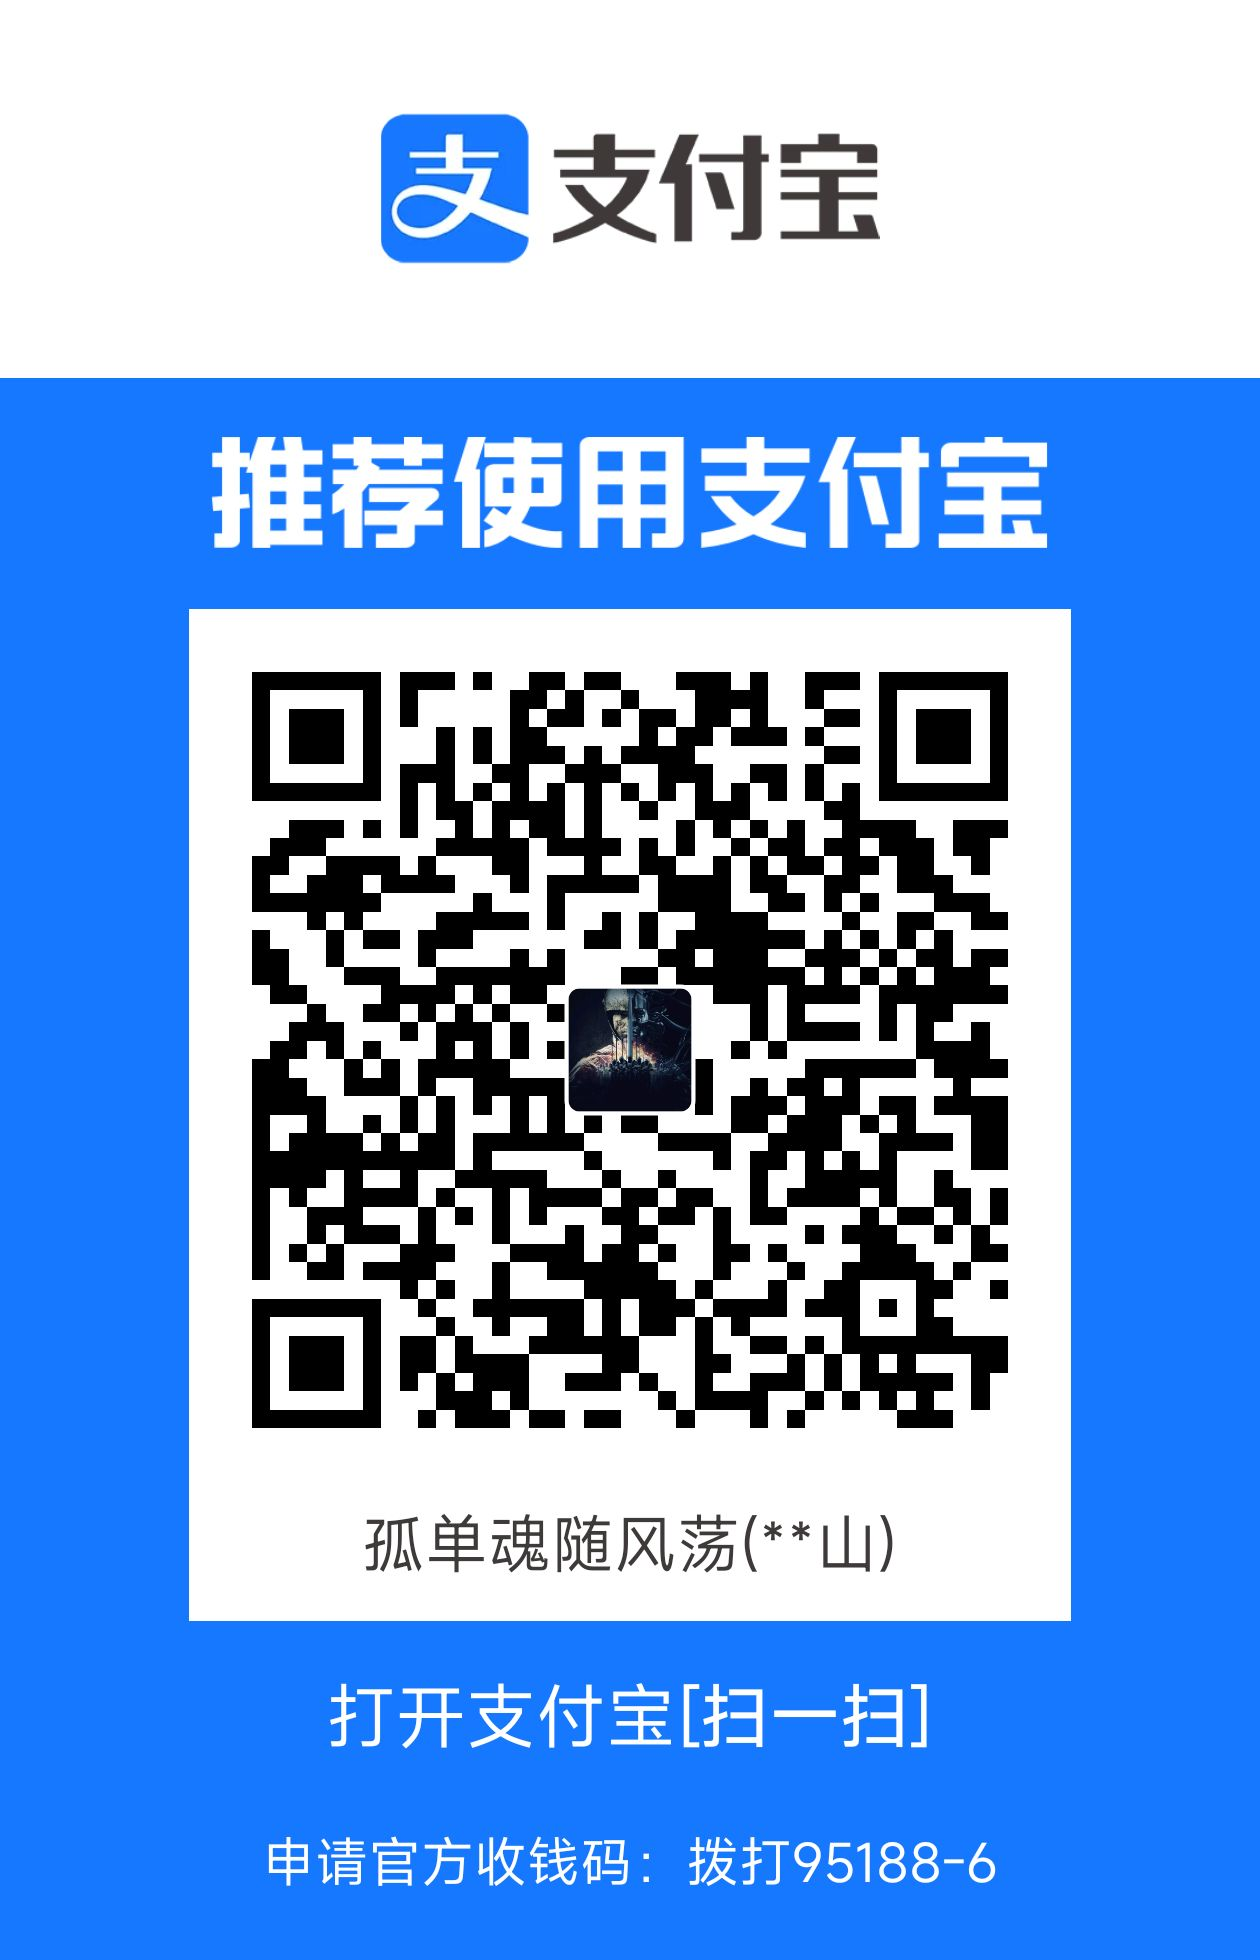
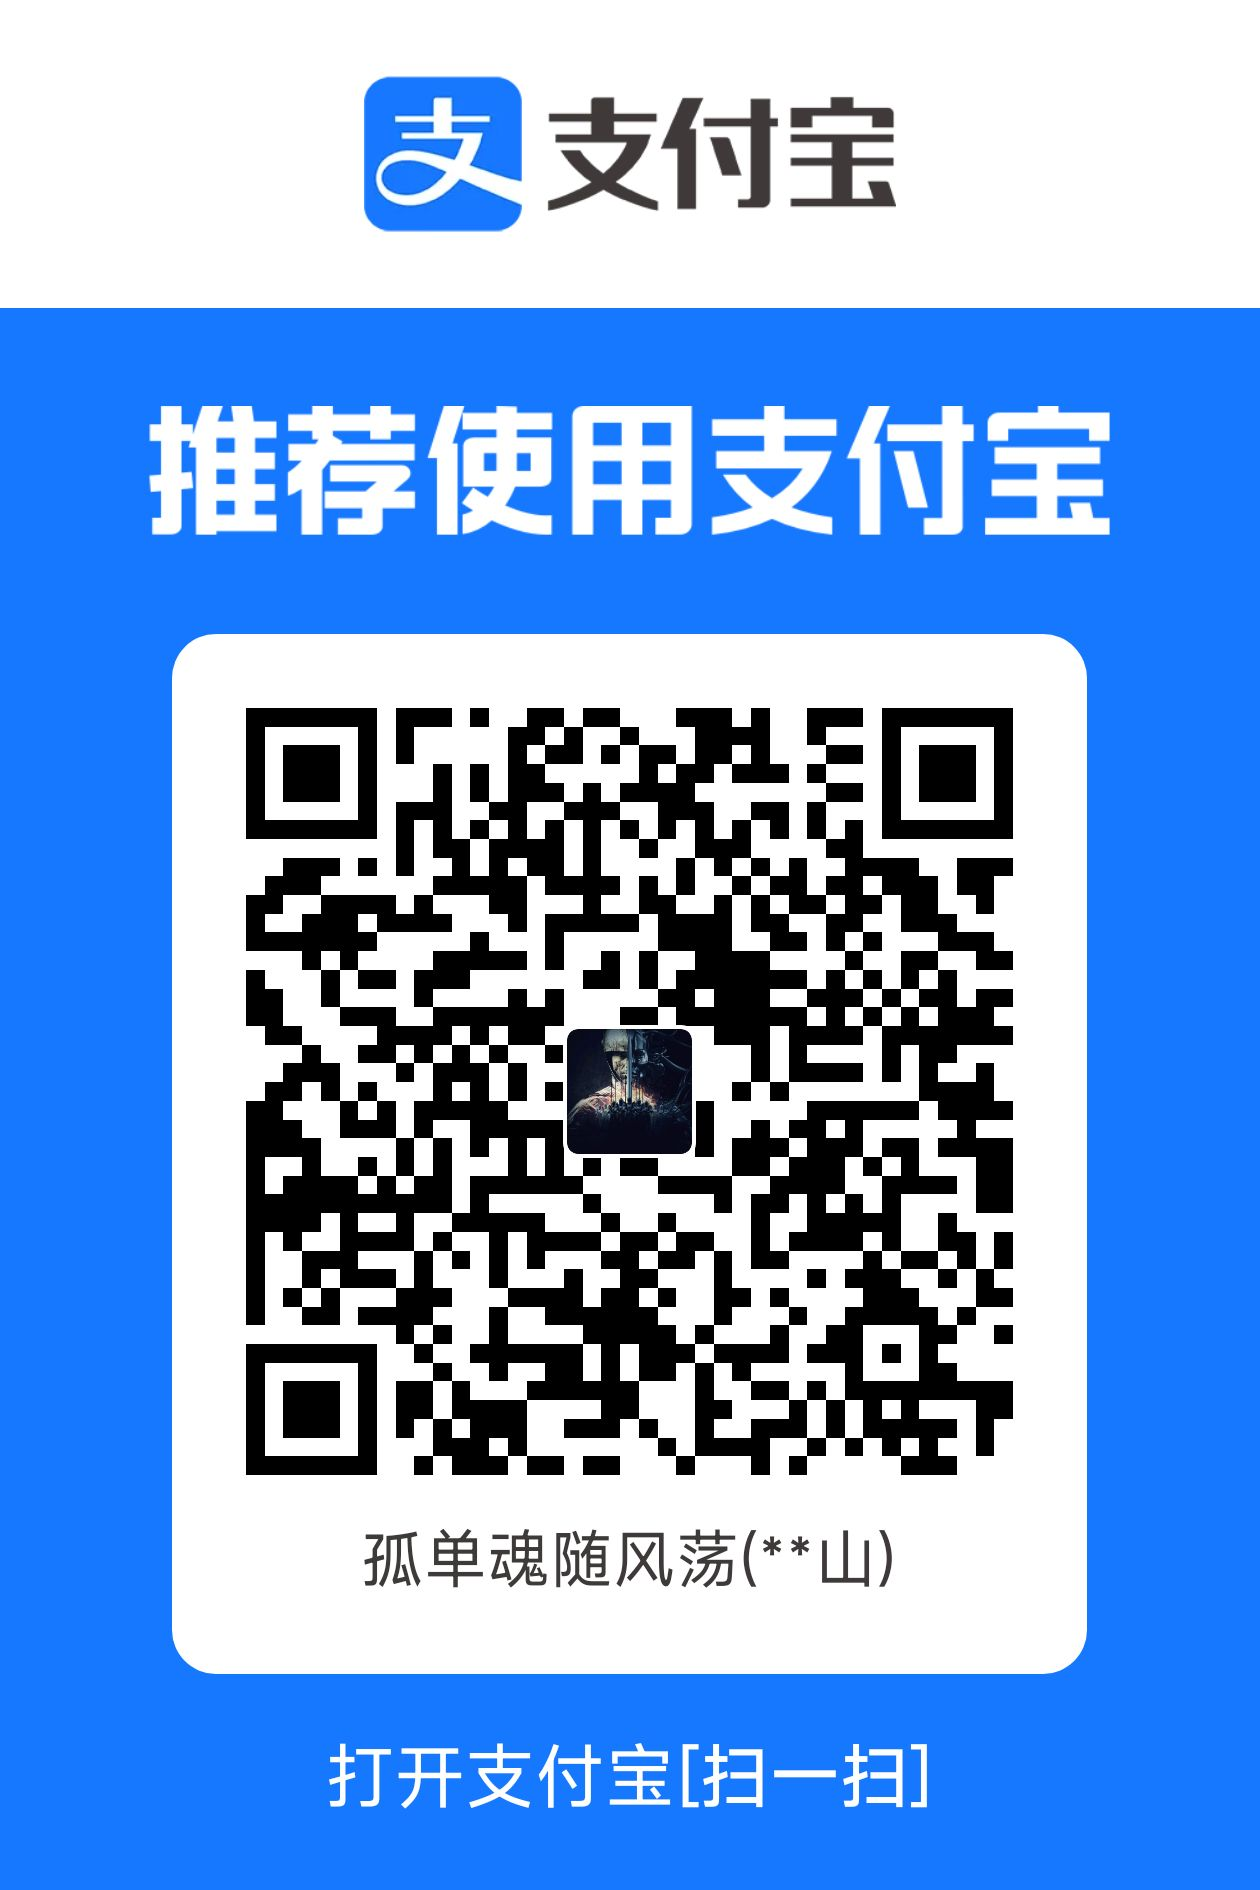
更新打赏

diff --git a/_tabs/about.md b/_tabs/about.md
@@ -27,8 +27,8 @@ order: 4
 4. 若 GitHub 源无法访问，可添加 `https://ghfast.top/` 前缀，即：将地址分别改为 `https://ghfast.top/https://github.com/[username]/[reponame]/releases/download/[tagname]/[filename]`（推荐）、`https://ghfast.top/https://raw.githubusercontent.com/[username]/[reponame]/[tagname]/[filename]` 和 `https://ghfast.top/https://raw.githubusercontent.com/[username]/[reponame]/[branchname]/[filename]`
 
 ## 给作者加鸡腿
-支付宝  
-<img src="/assets/img/about/alipay.jpg" alt="支付宝" width="20%" />
+<img src="/assets/img/about/alipay.jpg" alt="支付宝" width="30%" />
+<img src="/assets/img/about/wechat.png" alt="微信" width="30%" />
 
 ## 机场推荐
 [Bitz Net](https://rd2.bnaffloop.com/#/register?code=HT0ALWZq)（仅次于一线机场，推荐打折时购买）  

diff --git a/README.md b/README.md
@@ -22,8 +22,8 @@
 4. 若 GitHub 源无法访问，可添加 `https://ghfast.top/` 前缀，即：将地址分别改为 `https://ghfast.top/https://github.com/[username]/[reponame]/releases/download/[tagname]/[filename]`（推荐）、`https://ghfast.top/https://raw.githubusercontent.com/[username]/[reponame]/[tagname]/[filename]` 和 `https://ghfast.top/https://raw.githubusercontent.com/[username]/[reponame]/[branchname]/[filename]`
 
 # 给作者加鸡腿
-支付宝  
-<img src="/assets/img/about/alipay.jpg" alt="支付宝" width="20%" />
+<img src="/assets/img/about/alipay.jpg" alt="支付宝" width="30%" />
+<img src="/assets/img/about/wechat.png" alt="微信" width="30%" />
 
 # 机场推荐
 [Bitz Net](https://rd2.bnaffloop.com/#/register?code=HT0ALWZq)（仅次于一线机场，推荐打折时购买）  
